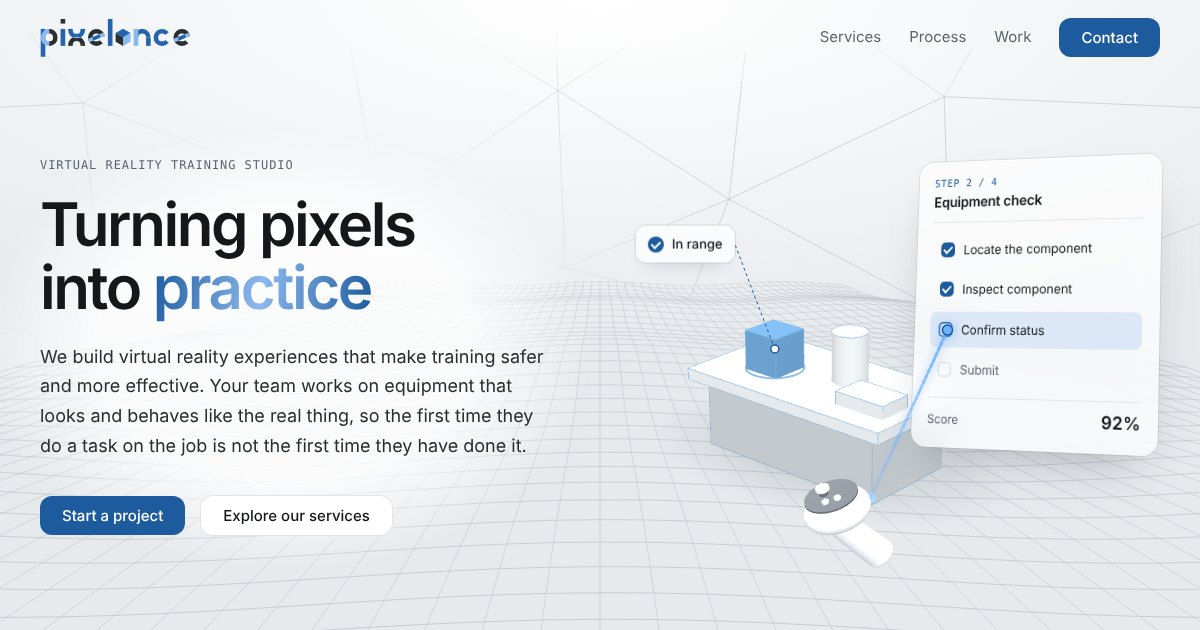
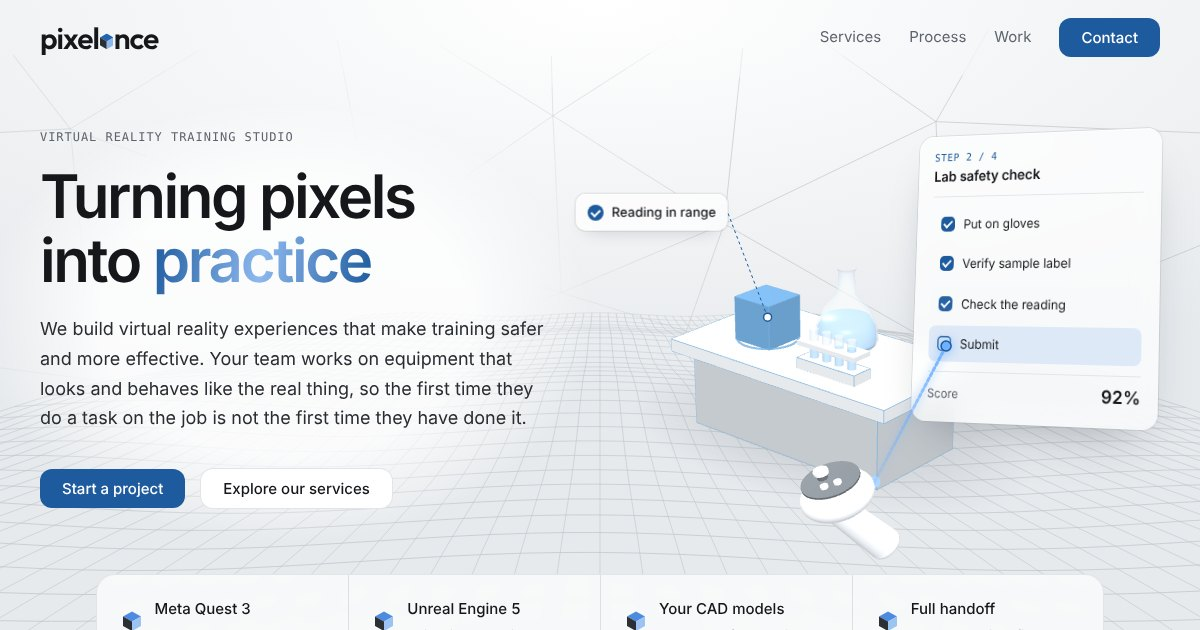
Add files via upload

diff --git a/index.html b/index.html
@@ -19,7 +19,7 @@
 <link rel="apple-touch-icon" href="assets/apple-touch-icon.png">
 <link rel="preconnect" href="https://fonts.googleapis.com">
 <link rel="preconnect" href="https://fonts.gstatic.com" crossorigin>
-<link rel="stylesheet" href="https://fonts.googleapis.com/css2?family=Outfit:wght@400;500&family=Sora:wght@400;500;600&family=Inter:wght@400;500&family=Newsreader:ital,opsz,wght@0,6..72,400;0,6..72,500;1,6..72,400&family=DM+Sans:opsz,wght@9..40,400;9..40,500&family=IBM+Plex+Mono:wght@400;500&display=swap">
+<link rel="stylesheet" href="https://fonts.googleapis.com/css2?family=Outfit:wght@400;500;600&family=Sora:wght@400;500;600&family=Inter:wght@400;500&family=Newsreader:ital,opsz,wght@0,6..72,400;0,6..72,500;1,6..72,400&family=DM+Sans:opsz,wght@9..40,400;9..40,500&family=IBM+Plex+Mono:wght@400;500&display=swap">
 <style>
 /* Layout: cool silver-white system; centered column, alternating feature rows, each visual set in a large soft-tinted rounded panel built from the brand cube */
 :root {
@@ -587,6 +587,15 @@ footer .credit { flex-basis: 100%; font-size: 12px; } footer .credit a { color: 
 /* services: what teams practice */
 .industries.uses { margin-top: 22px; }
 .uses li { cursor: default; }
+
+/* simple logo: black wordmark, blue cube in place of the a */
+:root { --cube-left: #2A2F34; }
+@media (prefers-color-scheme: dark) { :root:not([data-theme="light"]) { --cube-left: #4A5158; } }
+:root[data-theme="dark"] { --cube-left: #4A5158; }
+.logo-simple { display: inline-flex; align-items: baseline; font: 600 30px/1 var(--font-logo); letter-spacing: -0.035em; color: var(--ink); white-space: nowrap; }
+.logo-cube { height: 0.52em; width: auto; margin: 0 0.02em 0 0.03em; transform: translateY(0.02em); flex: none; }
+.logo-cube .cl { fill: var(--cube-left); }
+@media (max-width: 540px) { .logo-simple { font-size: 26px; } }
 </style>
 </head>
 <body>
@@ -604,7 +613,7 @@ footer .credit { flex-basis: 100%; font-size: 12px; } footer .credit a { color: 
 <header>
   <div class="wrap">
     <a class="brand" href="#top" aria-label="Pixelance home">
-      <svg class="wordmark-svg" xmlns="http://www.w3.org/2000/svg" viewBox="-6 -90 1246.9756073373903 330" aria-hidden="true" focusable="false"><defs><clipPath id="c1"><path d="M0,70a70,70 0 1,0 140,0a70,70 0 1,0 -140,0ZM38,70a32,32 0 1,1 64,0a32,32 0 1,1 -64,0Z" clip-rule="evenodd"/></clipPath><clipPath id="c2"><path d="M0,70a70,70 0 1,0 140,0a70,70 0 1,0 -140,0ZM38,70a32,32 0 1,1 64,0a32,32 0 1,1 -64,0Z" clip-rule="evenodd"/></clipPath><clipPath id="c3"><path d="M226,8a70,70 0 1,0 140,0a70,70 0 1,0 -140,0ZM264,8a32,32 0 1,1 64,0a32,32 0 1,1 -64,0Z" clip-rule="evenodd"/></clipPath><clipPath id="c4"><path d="M226,132a70,70 0 1,0 140,0a70,70 0 1,0 -140,0ZM264,132a32,32 0 1,1 64,0a32,32 0 1,1 -64,0Z" clip-rule="evenodd"/></clipPath><clipPath id="c5"><path d="M226,8a70,70 0 1,0 140,0a70,70 0 1,0 -140,0ZM264,8a32,32 0 1,1 64,0a32,32 0 1,1 -64,0Z" clip-rule="evenodd"/></clipPath><clipPath id="c6"><path d="M226,132a70,70 0 1,0 140,0a70,70 0 1,0 -140,0ZM264,132a32,32 0 1,1 64,0a32,32 0 1,1 -64,0Z" clip-rule="evenodd"/></clipPath><mask id="m7" maskUnits="userSpaceOnUse" x="-500" y="-500" width="3000" height="1000"><rect x="-500" y="-500" width="3000" height="1000" fill="#fff"/><path d="M460.0,70.0L657.5,38.7L659.3,53.4L660.0,68.3L659.6,83.1L658.1,97.8L655.4,112.4L651.8,126.8L647.0,140.9L641.3,154.5L634.5,167.7L626.8,180.4L618.1,192.4L608.6,203.8Z" fill="#000"/></mask><clipPath id="c8"><path d="M390,70a70,70 0 1,0 140,0a70,70 0 1,0 -140,0ZM428,70a32,32 0 1,1 64,0a32,32 0 1,1 -64,0Z" clip-rule="evenodd"/></clipPath><clipPath id="c9"><path d="M428,70a32,32 0 1,0 64,0a32,32 0 1,0 -64,0Z" clip-rule="evenodd"/></clipPath><clipPath id="c10"><path d="M766.9756073373903,70a70,70 0 1,0 140,0a70,70 0 1,0 -140,0ZM804.9756073373903,70a32,32 0 1,1 64,0a32,32 0 1,1 -64,0Z" clip-rule="evenodd"/></clipPath><mask id="m11" maskUnits="userSpaceOnUse" x="-500" y="-500" width="3000" height="1000"><rect x="-500" y="-500" width="3000" height="1000" fill="#fff"/><path d="M1001.0,70.0L1158.6,-53.1L1171.2,-35.0L1181.7,-15.6L1190.1,4.9L1196.1,26.1L1199.8,47.9L1201.0,70.0L1199.8,92.1L1196.1,113.9L1190.1,135.1L1181.7,155.6L1171.2,175.0L1158.6,193.1Z" fill="#000"/></mask><mask id="m12" maskUnits="userSpaceOnUse" x="-500" y="-500" width="3000" height="1000"><rect x="-500" y="-500" width="3000" height="1000" fill="#fff"/><path d="M1165.0,70.0L1362.5,38.7L1364.3,53.4L1365.0,68.3L1364.5,83.1L1363.0,97.8L1360.4,112.4L1356.7,126.8L1352.0,140.9L1346.2,154.5L1339.5,167.7L1331.8,180.4L1323.1,192.4L1313.6,203.8Z" fill="#000"/></mask><clipPath id="c13"><path d="M1094.9756073373903,70a70,70 0 1,0 140,0a70,70 0 1,0 -140,0ZM1132.9756073373903,70a32,32 0 1,1 64,0a32,32 0 1,1 -64,0Z" clip-rule="evenodd"/></clipPath><clipPath id="c14"><path d="M1132.9756073373903,70a32,32 0 1,0 64,0a32,32 0 1,0 -64,0Z" clip-rule="evenodd"/></clipPath></defs><rect x="0" y="0" width="38" height="230" fill="var(--lg-a)"/><g clip-path="url(#c1)"><rect x="-10" y="-10" width="80" height="160" fill="var(--lg-b)"/></g><g clip-path="url(#c2)"><rect x="70" y="-10" width="80" height="160" fill="var(--lg-d)"/></g><rect x="164" y="-82" width="38" height="38" fill="var(--lg-d)"/><rect x="164" y="0" width="38" height="140" fill="var(--lg-a)"/><g clip-path="url(#c3)"><rect x="221" y="8" width="150" height="80" fill="var(--lg-a)"/></g><g clip-path="url(#c4)"><rect x="221" y="52" width="150" height="80" fill="var(--lg-d)"/></g><g clip-path="url(#c6)"><g clip-path="url(#c5)"><rect x="221" y="8" width="150" height="80" fill="var(--lg-b)"/></g></g><rect x="226" y="0" width="38" height="10" fill="var(--lg-a)"/><rect x="328" y="0" width="38" height="10" fill="var(--lg-a)"/><rect x="226" y="130" width="38" height="10" fill="var(--lg-d)"/><rect x="328" y="130" width="38" height="10" fill="var(--lg-d)"/><g mask="url(#m7)"><path d="M390,70a70,70 0 1,0 140,0a70,70 0 1,0 -140,0ZM428,70a32,32 0 1,1 64,0a32,32 0 1,1 -64,0Z" fill-rule="evenodd" fill="var(--lg-d)"/></g><g clip-path="url(#c8)"><rect x="360" y="55" width="200" height="30" transform="rotate(-22 460 70)" fill="var(--lg-b)"/></g><g clip-path="url(#c9)"><rect x="360" y="55" width="200" height="30" transform="rotate(-22 460 70)" fill="var(--lg-a)"/></g><rect x="554" y="-82" width="38" height="222" fill="var(--lg-a)"/><path d="M679.5,-1.0L741.0,34.5L679.5,70.0L618.0,34.5Z" fill="var(--lg-a)"/><path d="M618.0,34.5L679.5,70.0L679.5,141.0L618.0,105.5Z" fill="var(--lg-d)"/><path d="M741.0,34.5L679.5,70.0L679.5,141.0L741.0,105.5Z" fill="var(--lg-b)"/><g clip-path="url(#c10)"><rect x="761.9756073373903" y="-5" width="150" height="75" fill="var(--lg-a)"/></g><rect x="868.9756073373903" y="70" width="38" height="70" fill="var(--lg-a)"/><rect x="766.9756073373903" y="0" width="38" height="140" fill="var(--lg-b)"/><g mask="url(#m11)"><path d="M930.9756073373903,70a70,70 0 1,0 140,0a70,70 0 1,0 -140,0ZM968.9756073373903,70a32,32 0 1,1 64,0a32,32 0 1,1 -64,0Z" fill-rule="evenodd" fill="var(--lg-a)"/></g><g mask="url(#m12)"><path d="M1094.9756073373903,70a70,70 0 1,0 140,0a70,70 0 1,0 -140,0ZM1132.9756073373903,70a32,32 0 1,1 64,0a32,32 0 1,1 -64,0Z" fill-rule="evenodd" fill="var(--lg-d)"/></g><g clip-path="url(#c13)"><rect x="1064.9756073373903" y="55" width="200" height="30" transform="rotate(-22 1164.9756073373903 70)" fill="var(--lg-b)"/></g><g clip-path="url(#c14)"><rect x="1064.9756073373903" y="55" width="200" height="30" transform="rotate(-22 1164.9756073373903 70)" fill="var(--lg-a)"/></g></svg>
+      <span class="logo-simple" aria-hidden="true">pixel<svg class="logo-cube" viewBox="-26 -30 52 60" focusable="false"><polygon points="0,-30 26,-15 0,0 -26,-15" fill="#2463AE"/><polygon class="cl" points="-26,-15 0,0 0,30 -26,15"/><polygon points="26,-15 0,0 0,30 26,15" fill="#8DB8EE"/></svg>nce</span>
     </a>
     <button class="menu-toggle" type="button" aria-expanded="false" aria-controls="site-nav" aria-label="Open menu"><span></span><span></span><span></span></button>
     <nav aria-label="Main" id="site-nav">
